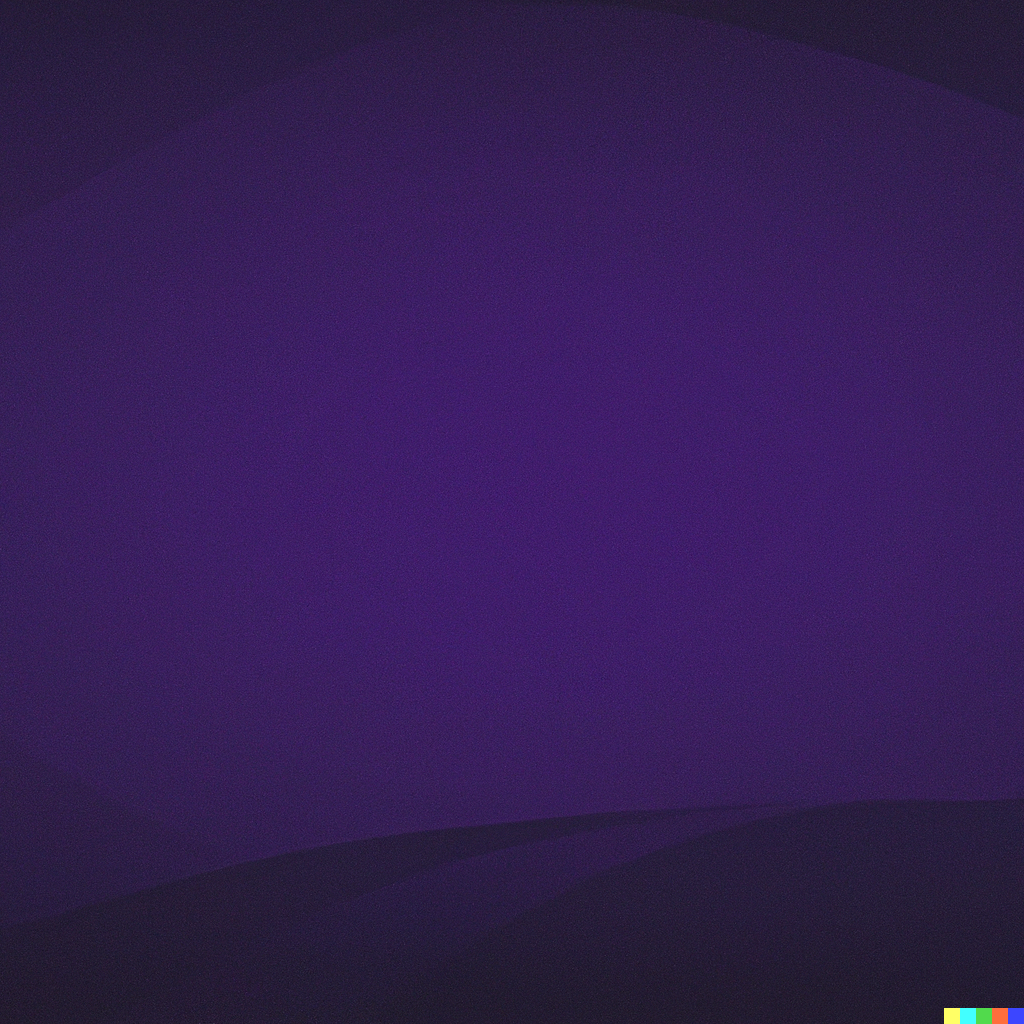
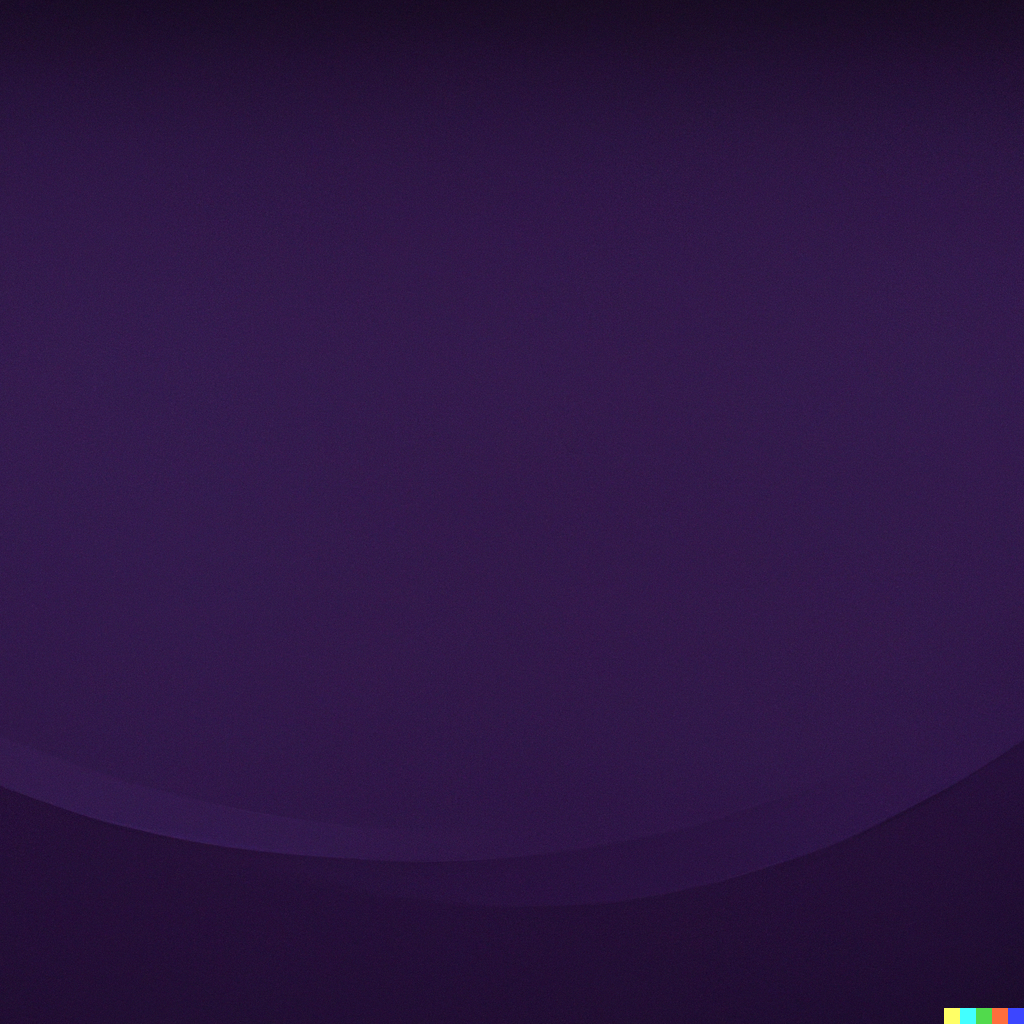
alterando fundo

Changed region(s): [[0.0938, 0.0, 1.0, 0.7812], [0.9062, 0.7188, 1.0, 0.7812]]

diff --git a/tela_login/css/footer.css b/tela_login/css/footer.css
@@ -5,7 +5,7 @@ footer {
     /* box-shadow: inset 1px 1px 1px black;
     background-color: #c18ff7; */
     /* background-image: url(/tela_login/img/fundo.png); */
-    background-image: url(/tela_login/img/fundo2.png);
+    background-image: url(/tela_login/img/fundo1.png);
     background-size: cover;
 }
 

diff --git a/tela_login/css/main.css b/tela_login/css/main.css
@@ -8,7 +8,7 @@
     justify-content: space-around;
     color: whitesmoke;
 
-    background-image: url(/tela_login/img/fundo4.png);
+    background-image: url(/tela_login/img/fundo3.png);
     background-size: cover;
 }
 
